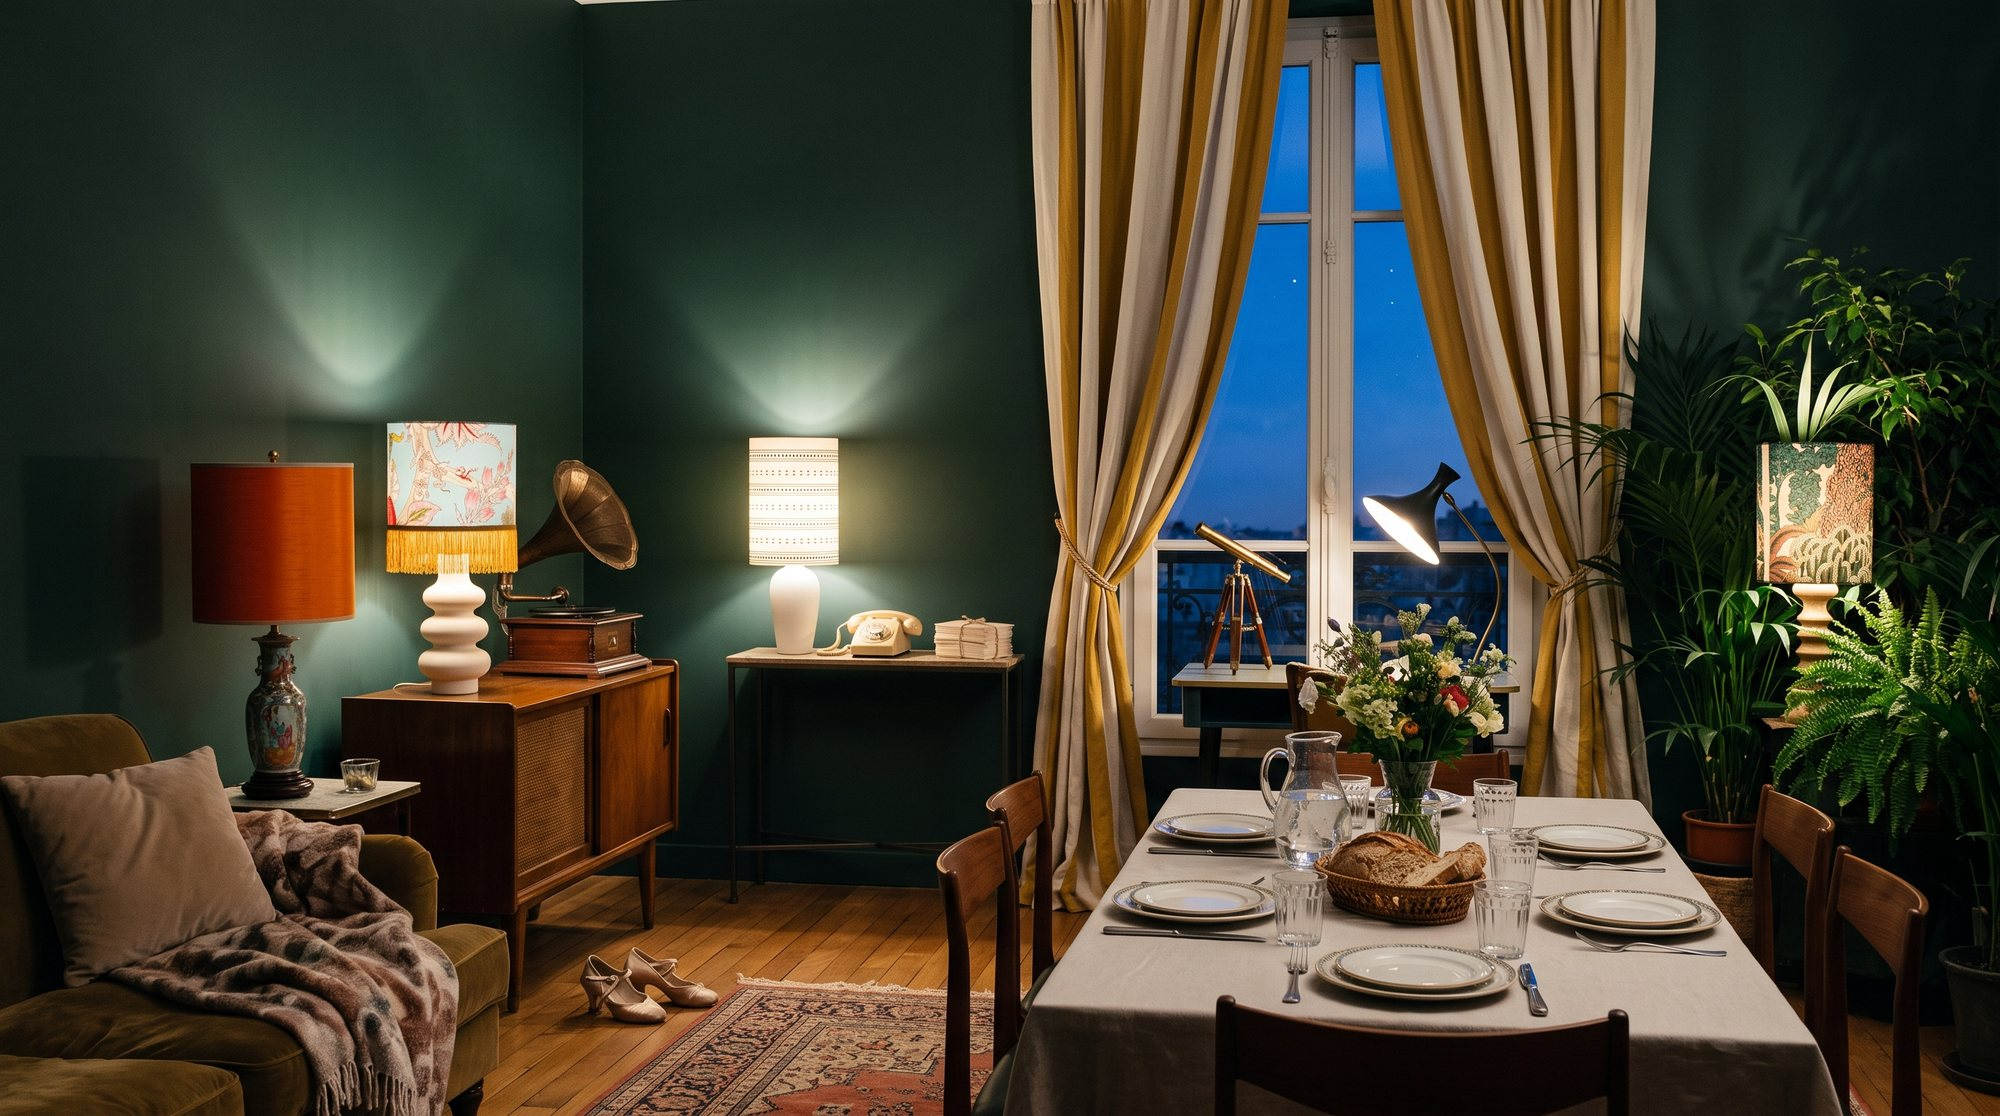
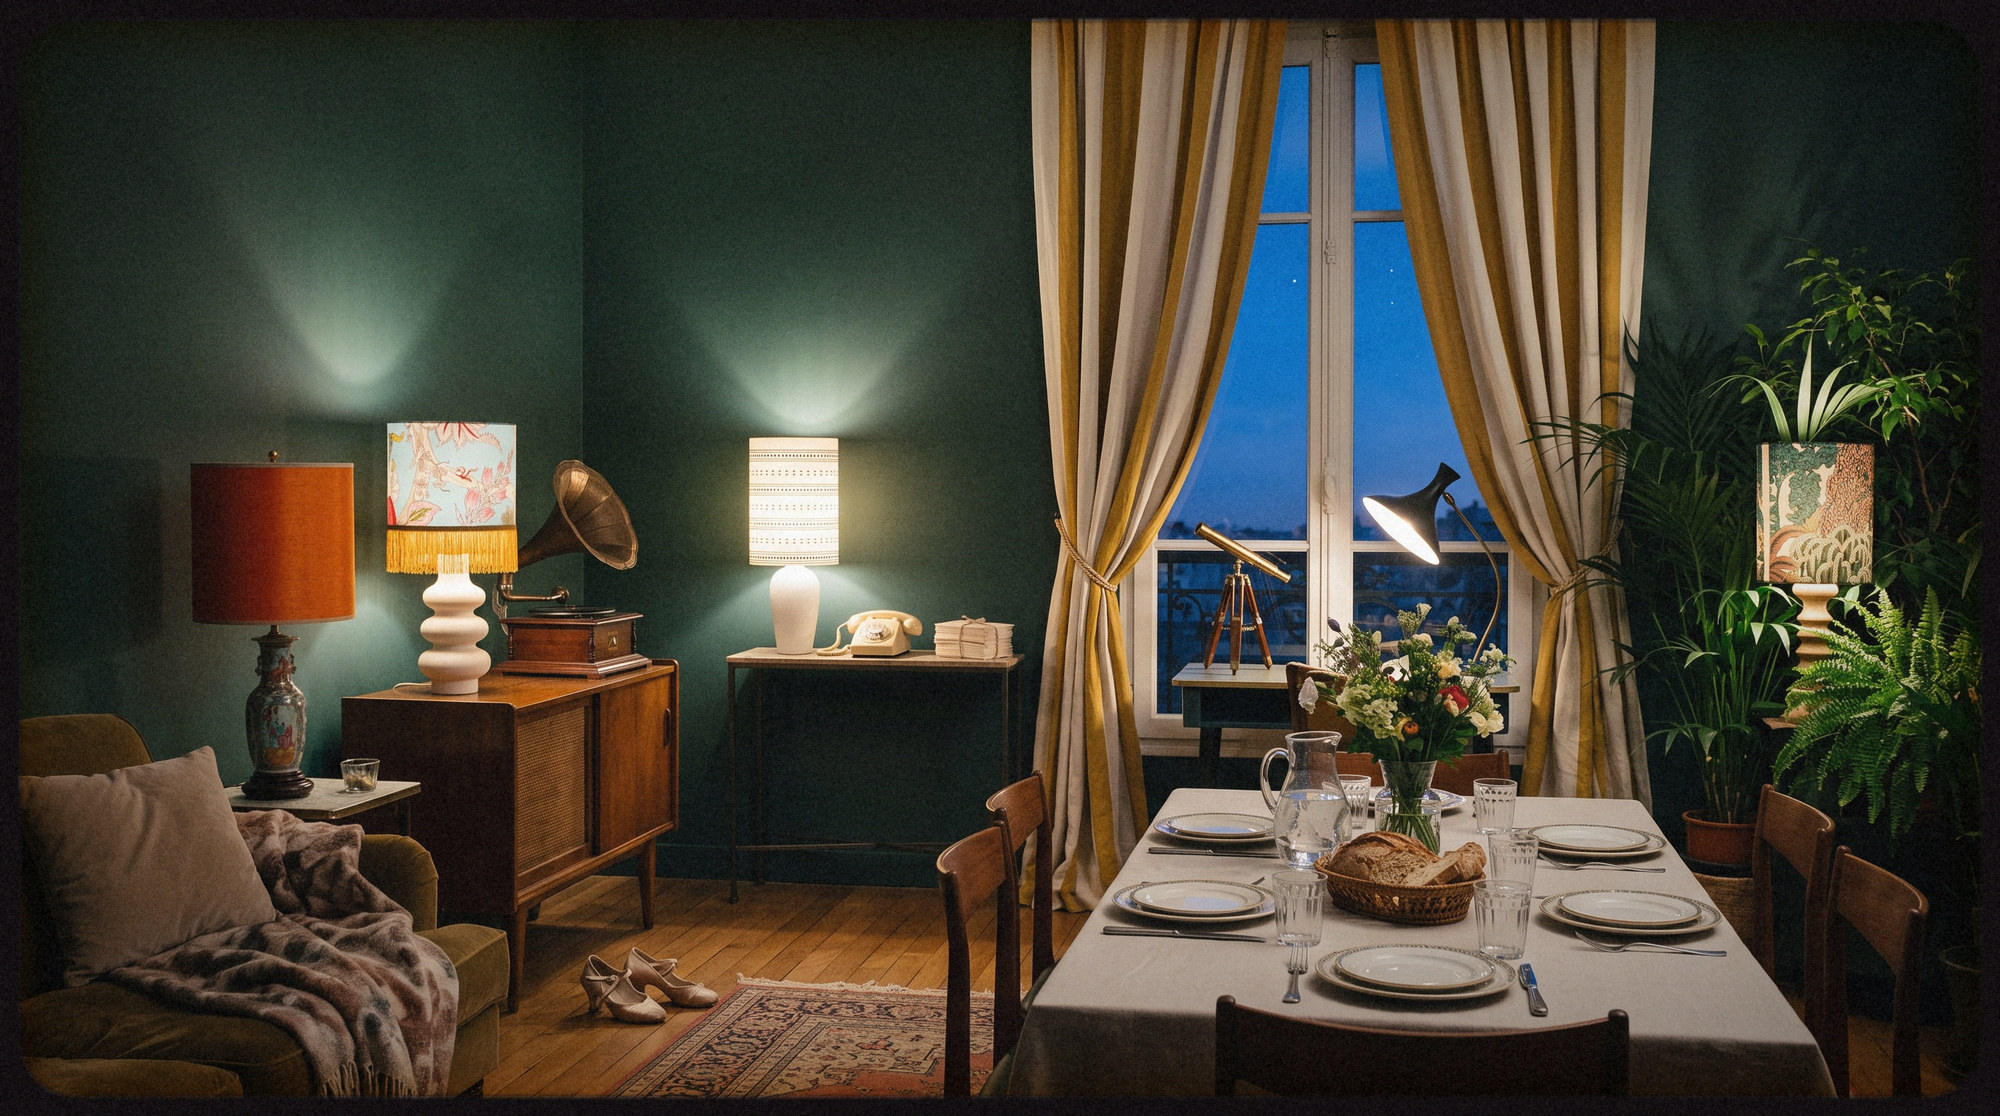
Photo Il est 12 h, Miss Flower : traitement pellicule de la home (grain, noirs relevés, vignettage, bords arrondis et brûlés) ; outil outils/traitement_pellicule.py
Claude-Session: https://claude.ai/code/session_01QXPzSe9RmaeLVCjRnAUMaC

diff --git a/outils/traitement_pellicule.py b/outils/traitement_pellicule.py
@@ -1,0 +1,36 @@
+"""Traitement « pellicule » des images d'ambiance de la home : noirs légèrement relevés, grain, vignettage,
+cadre à bords arrondis, bords un peu brûlés (chauds et assombris).
+Usage : python3 outils/traitement_pellicule.py source.jpg sortie.jpg [largeur]"""
+import sys, numpy as np
+from PIL import Image, ImageFilter
+def traiter(src,dst,largeur=2000,seed=5):
+    im=Image.open(src).convert('RGB')
+    if largeur and im.width>largeur: im=im.resize((largeur,round(im.height*largeur/im.width)),Image.LANCZOS)
+    a=np.asarray(im).astype('float32'); H,W,_=a.shape
+    # 1) noirs relevés et contraste doux
+    a=a*0.93+13.0
+    # 2) vignettage elliptique
+    yy,xx=np.mgrid[0:H,0:W].astype('float32'); nx=(xx-W/2)/(W/2); ny=(yy-H/2)/(H/2)
+    v=1.0-0.30*np.clip(nx**2*0.8+ny**2*0.9-0.25,0,1.4)
+    a*=v[...,None]
+    # 3) cadre à coins arrondis : distance signée à un rectangle arrondi
+    m=0.010*W; r=0.028*W
+    cx,cy=W/2,H/2; hw,hh=W/2-m-r,H/2-m-r
+    dx=np.abs(xx-cx)-hw; dy=np.abs(yy-cy)-hh
+    d=np.sqrt(np.maximum(dx,0)**2+np.maximum(dy,0)**2)+np.minimum(np.maximum(dx,dy),0)-r   # <0 dedans
+    dehors=np.clip(d/(0.0035*W)+0.5,0,1)                       # 1 = hors cadre (bord net, légèrement adouci)
+    brule=np.clip(1.0-(-d)/(0.032*W),0,1)**2*(d<0)            # 1 au bord intérieur, 0 à 3,2 % de la largeur
+    # bords brûlés : plus chauds (rouge+, bleu-) et plus sombres
+    a[...,0]*=1+0.10*brule; a[...,1]*=1-0.07*brule; a[...,2]*=1-0.38*brule
+    a*=(1-0.22*brule)[...,None]
+    cadre=np.array([20,16,18],'float32')
+    a=a*(1-dehors[...,None])+cadre*dehors[...,None]
+    # 4) grain argentique : luminance + un peu de chroma, légèrement adouci
+    g=np.random.default_rng(seed)
+    n=g.normal(0,1,(H,W,1))*6.0+g.normal(0,1,(H,W,3))*1.6
+    n=np.asarray(Image.fromarray(np.clip(n*8+128,0,255).astype('uint8')).filter(ImageFilter.GaussianBlur(0.6))).astype('float32')
+    n=(n-128)/8.0*1.15
+    a=a+n*(0.55+0.45*(a.mean(axis=2,keepdims=True)<110))    # un peu plus visible dans les ombres
+    Image.fromarray(np.clip(a,0,255).astype('uint8')).save(dst,'JPEG',quality=88,subsampling=0,optimize=True,progressive=True)
+if __name__=='__main__':
+    traiter(sys.argv[1],sys.argv[2],int(sys.argv[3]) if len(sys.argv)>3 else 2000)
